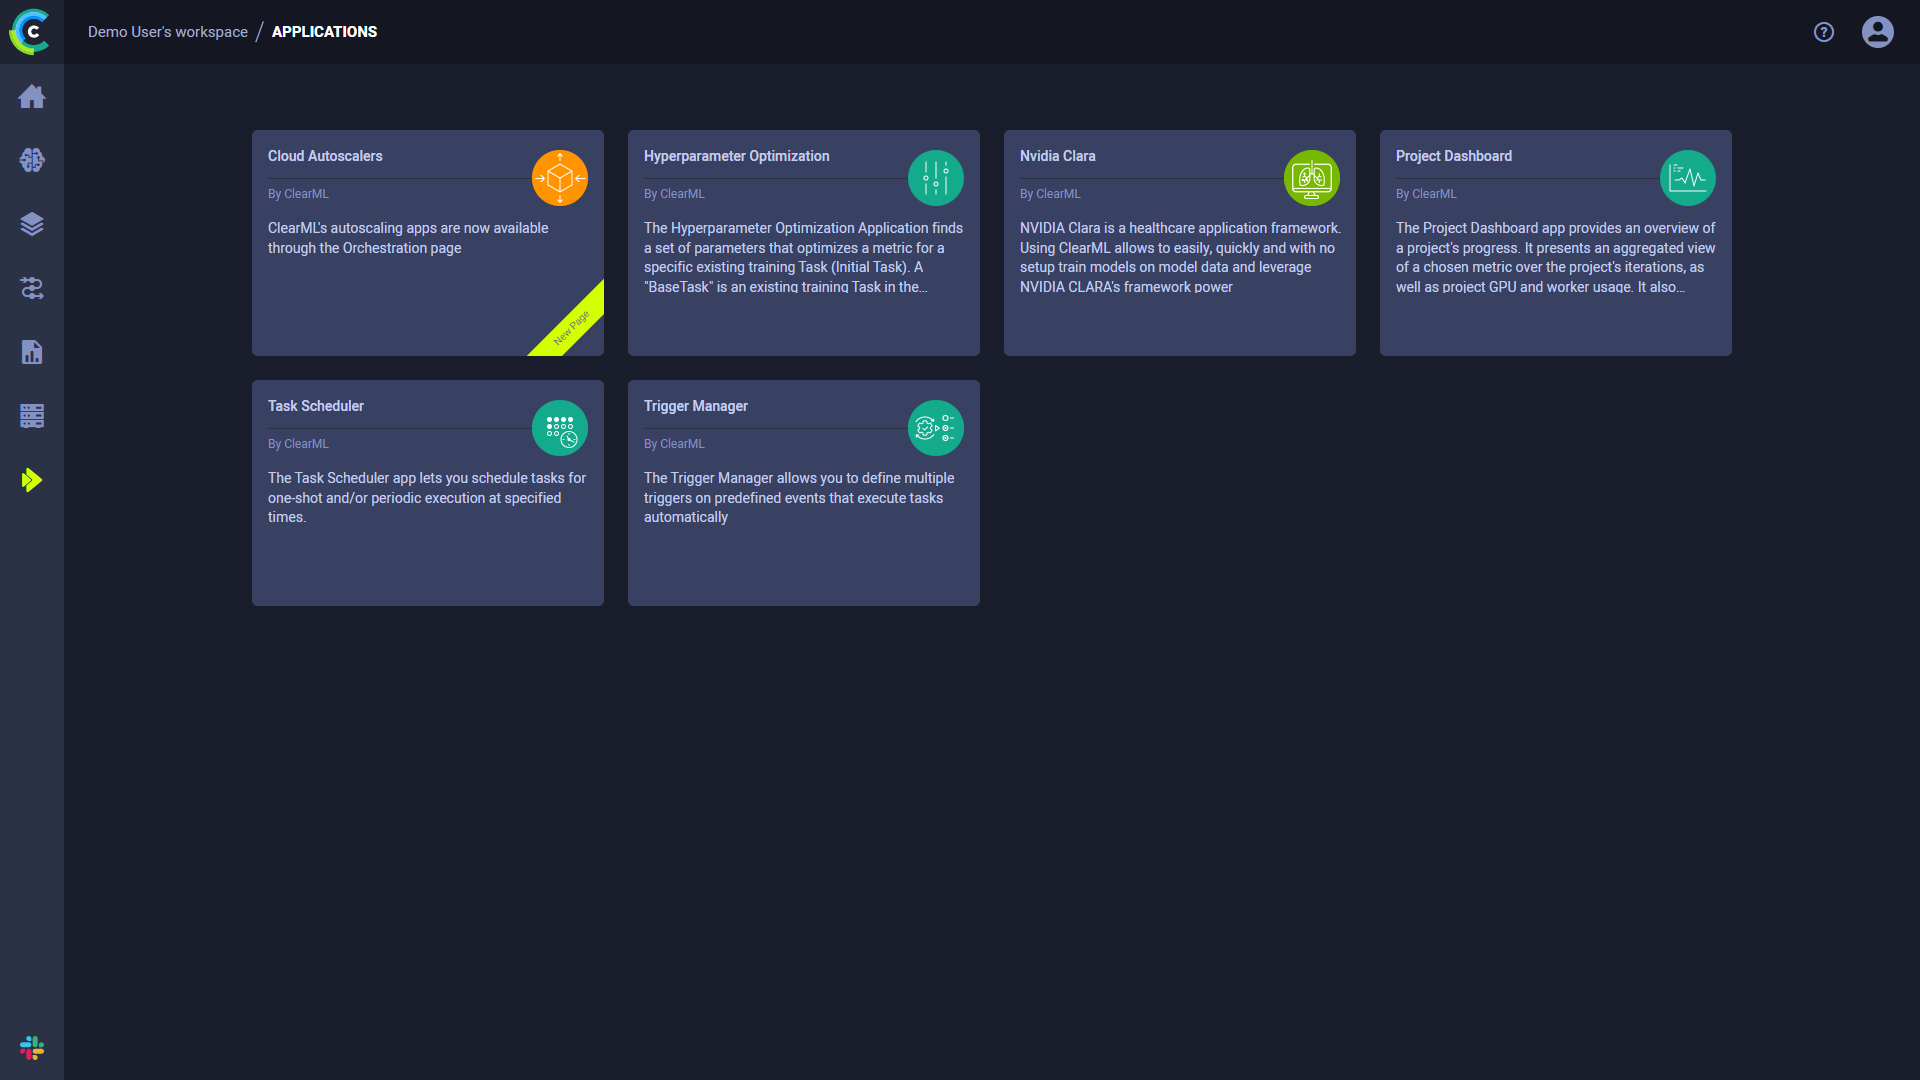
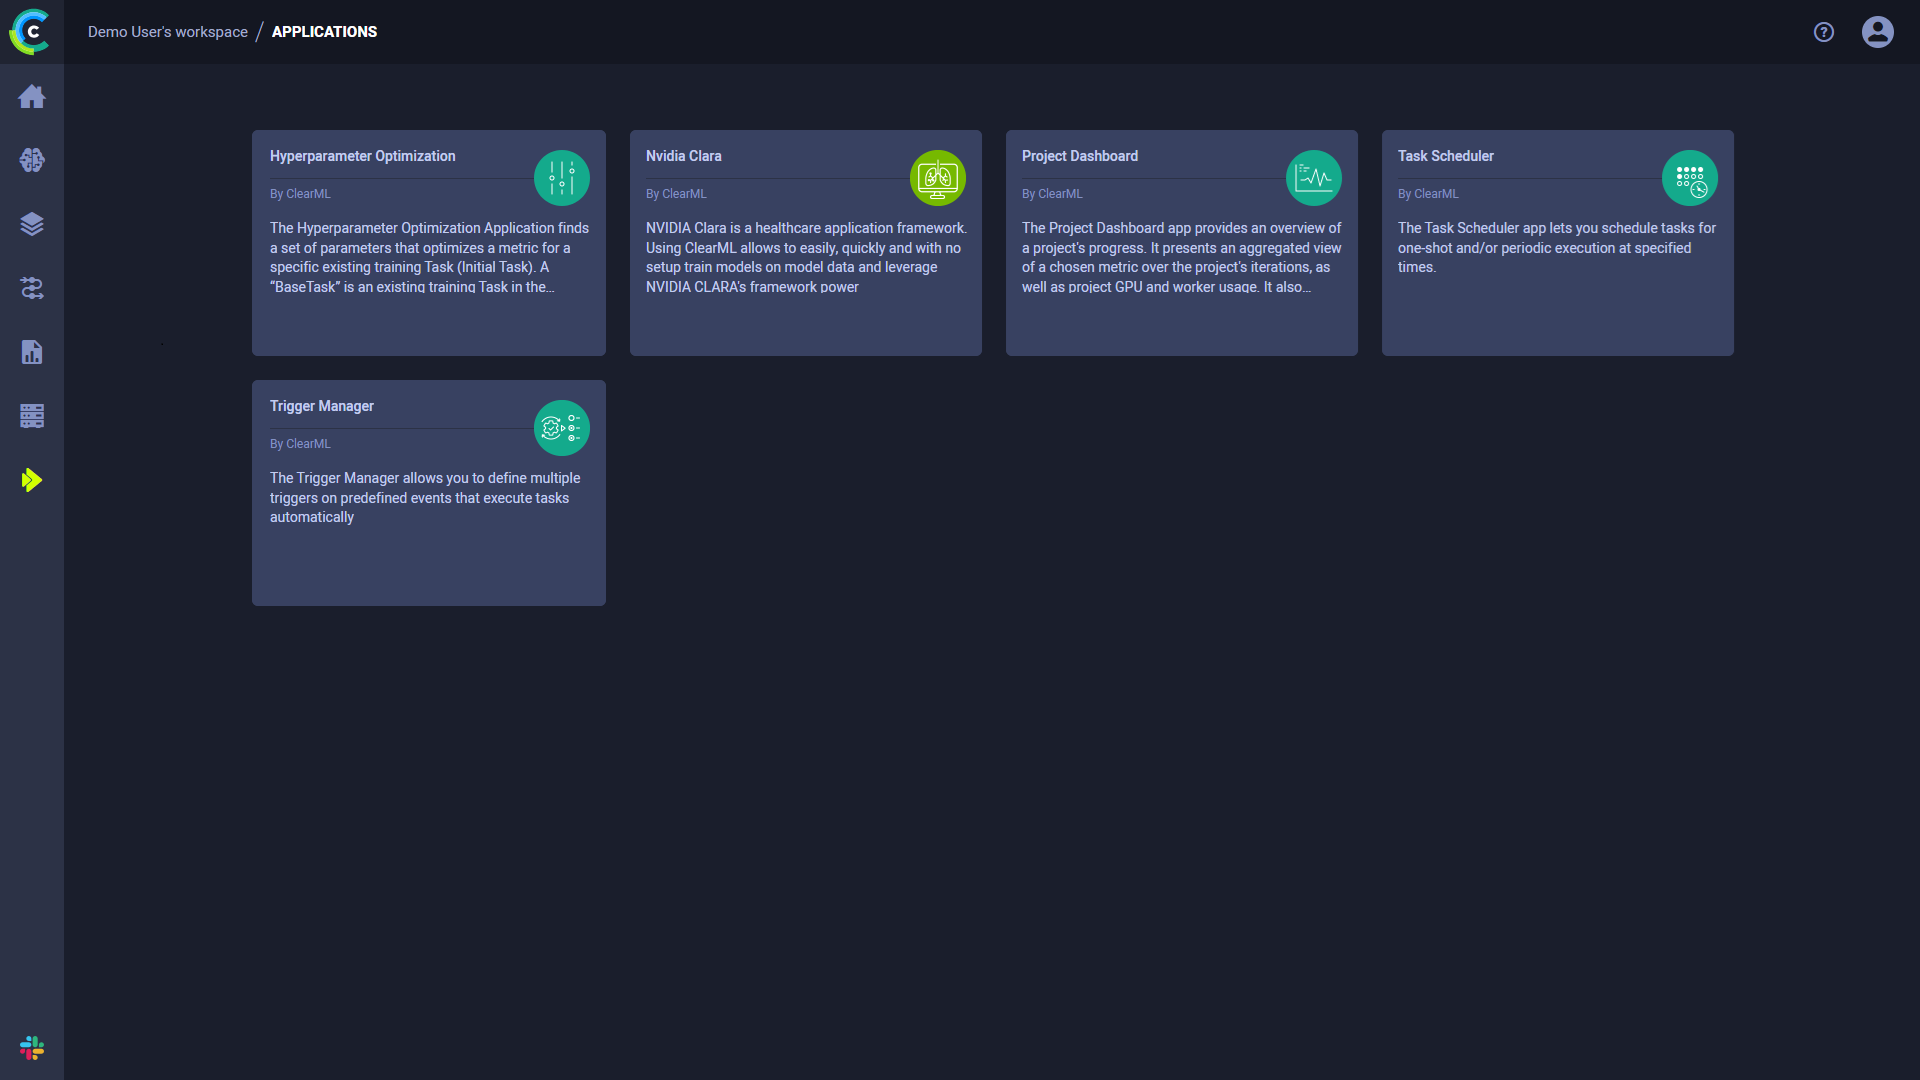
Update docs (#793)

Changed region(s): [[0.125, 0.1222, 0.9062, 0.3361], [0.125, 0.3361, 0.5312, 0.5806]]

diff --git a/sidebars.js b/sidebars.js
@@ -40,9 +40,9 @@ module.exports = {
         {'Cloud Autoscaling': [
             'cloud_autoscaling/autoscaling_overview',
              {'Autoscaler Apps': [
-                    {type: 'ref', id: 'webapp/applications/apps_gpu_compute'},
-                    {type: 'ref', id: 'webapp/applications/apps_aws_autoscaler'},
-                    {type: 'ref', id: 'webapp/applications/apps_gcp_autoscaler'},
+                    'webapp/applications/apps_gpu_compute',
+                    'webapp/applications/apps_aws_autoscaler',
+                    'webapp/applications/apps_gcp_autoscaler',
                  ]
              }
              ]
@@ -119,9 +119,6 @@ module.exports = {
             {
                 'ClearML Applications': [
                     'webapp/applications/apps_overview',
-                    'webapp/applications/apps_gpu_compute',
-                    'webapp/applications/apps_aws_autoscaler',
-                    'webapp/applications/apps_gcp_autoscaler',
                     'webapp/applications/apps_hpo',
                     'webapp/applications/apps_dashboard',
                     'webapp/applications/apps_task_scheduler',

diff --git a/docs/webapp/webapp_profile.md b/docs/webapp/webapp_profile.md
@@ -8,19 +8,21 @@ To navigate to the Settings page, click the <img src="/docs/latest/icons/ico-me.
 button in the top right corner of the web UI screen, then click **Settings**. 
 
 The Settings page consists of the following sections:
-* [Profile](#profile) - You basic user information
-* [Configuration](#configuration) - Control general system behavior settings and input storage access credentials
-* [Workspace](#workspace)  
-    * [ClearML credentials](#clearml-credentials) - Create client credentials for ClearML and ClearML Agent to use 
-    * [Configuration vault](#configuration-vault) (ClearML Enterprise Server) - Define global ClearML client settings
-      that are applied to all ClearML and ClearML Agent instances (which use the workspace's access 
-      credentials)
-* [Administrator Vaults](#administrator-vaults) (ClearML Enterprise Server) - Manage user-group level configuration 
-  vaults to apply ClearML client settings to all members of the user groups
-* [Users & Groups](#users--groups) - Manage the users that have access to a workspace
-* [Access Rules](#access-rules) (ClearML Enterprise Server) - Manage per-resource access privileges 
-* [Identity Providers](#identity-providers) (ClearML Enterprise Server) - Manage server identity providers
-* [Usage & Billing](#usage--billing) (ClearML Hosted Service) - View current usage information and billing details 
+* User Settings:
+  * [Profile](#profile) - You basic user information
+  * [Configuration](#configuration) - Control general system behavior settings and input storage access credentials
+  * [Workspace](#workspace)  
+      * [ClearML credentials](#clearml-credentials) - Create client credentials for ClearML and ClearML Agent to use 
+      * [Configuration vault](#configuration-vault) (ClearML Enterprise Server) - Define global ClearML client settings
+        that are applied to all ClearML and ClearML Agent instances (which use the workspace's access 
+        credentials)
+* Administrator Settings:
+  * [Administrator Vaults](#administrator-vaults) (ClearML Enterprise Server) - Manage user-group level configuration 
+    vaults to apply ClearML client settings to all members of the user groups
+  * [Users & Groups](#users--groups) - Manage the users that have access to a workspace
+  * [Access Rules](#access-rules) (ClearML Enterprise Server) - Manage per-resource access privileges 
+  * [Identity Providers](#identity-providers) (ClearML Enterprise Server) - Manage server identity providers
+  * [Usage & Billing](#usage--billing) (ClearML Hosted Service) - View current usage information and billing details 
 
 ## Profile 
 The profile tab presents user information.
@@ -238,6 +240,88 @@ Removed users lose access to your workspace's resources (tasks, models, etc.) an
 revoked. Tasks and associated artifacts logged to your workspace by a removed user will remain in your workspace. The 
 user can only rejoin your workspace when you re-invite them. 
 
+### Service Accounts
+
+:::important Enterprise Feature
+This feature is available under the ClearML Enterprise plan.
+:::
+
+Service accounts are ClearML users that provide services with access to the ClearML API, but not the 
+UI. Administrators can create access credentials for service accounts to use them for different ClearML Agents, 
+automations, and more. 
+
+A service account has all the privileges of a normal user in ClearML, with the following limitations:
+* Service accounts cannot be used to access the UI
+* Service accounts can be used to facilitate running tasks under the identity of each task's owner ("Impersonation"). 
+  * Used to run an agent using the command-line, this will allow you to specify the `--use-owner-token` option.
+  * Used to run the ClearML Agent Helm Chart, this will allow you to specify `values.agentk8s.useOwnerToken: true` option.
+  * Used to run an Autoscaler application, this will allow you to make use of the `Apply Task Owner Vault Configuration`
+  option.
+
+:::info Access Rules 
+When [access controls](#access-rules) are provisioned, they apply to service accounts the same as for ClearML users.
+Therefore, in order to use a service account to run an agent in daemon mode, the service account must have access to the 
+queue the agent will service.
+:::
+
+The **SERVICE ACCOUNTS** table lists workspace service accounts. 
+Each row of the table includes: 
+* Name - Service account name 
+* [User groups](#user-groups)
+* User ID
+* Credentials - Number of credentials currently available to the account
+* Last active time
+
+Hover over a service account in the table to **Edit** or **Delete** it.
+
+![Service accounts](../img/settings_service_accounts.png)
+
+#### Creating a Service Account
+
+To create a service account:
+1. Click **+ ADD SERVICE ACCOUNT**
+2. In the **ADD SERVICE ACCOUNT** modal input a name for the new account. Select `Allow impersonation` to allow the 
+   service account to assume the identity of a task owner 
+4. Click **Save**
+
+:::info Impersonation 
+Service accounts are members of the `Users` group, meaning they can access the resources available to all users. When 
+impersonation is enabled, a task run by the service account (i.e. by an agent or autoscaler using the service accounts' 
+credentials) is executed as if by the owner of the task, meaning it will have access to the task owner's configuration 
+vaults and to the resources that the task owner has access to. Impersonating an admin user does not mean the task's code 
+will have admin privileges.
+
+In case impersonation is not enabled: 
+* If you run an agent with `--use_owner_token` then the agent will fail. 
+* If you run an agent without `--use_owner_token`, the task will run with the service account's access rules, so make 
+  sure the account uses resources it has access to
+:::
+
+When a service account is created, an initial set of credentials is automatically generated. The dialog displays new 
+credentials, formatted as a ready-to-copy configuration file section.
+
+#### Service Account Credentials 
+
+To generate new credentials for a service account:
+1. Hover over the account's row on the table
+2. Click the <img src="/docs/latest/icons/ico-edit.svg" alt="Edit Pencil" className="icon size-md" /> button, which
+   opens the editing panel
+3. Click **Create new credentials**
+
+The dialog displays new credentials, formatted as a ready-to-copy configuration file section.
+
+To revoke a set of credentials:
+1. In the editing panel, hover of the relevant credential's row
+2. Click the <img src="/docs/latest/icons/ico-trash.svg" alt="Trash can" className="icon size-md" /> button
+
+#### Deleting Service Account
+Deleting a service account will revoke its credentials, causing agents using the account's credentials to fail. 
+Tasks and associated artifacts logged to your workspace by a service account will remain in your workspace.
+
+To delete a service account:
+1. Hover over the account's row on the table
+1. Click the <img src="/docs/latest/icons/ico-trash.svg" alt="Trash can" className="icon size-md" /> button
+
 ### User Groups
 
 :::important Enterprise Feature
@@ -249,7 +333,7 @@ Administrators can define user groups, which can be used for access privilege ma
 multiple user groups.
 
 The system includes three pre-configured groups that can't be removed: 
-* `Users` - All users. Can't be modified
+* `Users` - All users (including [service accounts](#service-accounts)). Can't be modified
 * `Admins` - Have RW access to all resources (except queue modification), and can grant users / user groups access 
   permissions to workspace resources
 * `Queue admins` - Can create / delete / rename queues
@@ -288,8 +372,8 @@ otherwise provided individually or to another group they are members of).
 This feature is available under the ClearML Enterprise plan
 :::
 
-Workspace administrators can use the **Access Rules** page to manage workspace permissions, by specifying which users 
-and/or user groups have access permissions to the following workspace resources:
+Workspace administrators can use the **Access Rules** page to manage workspace permissions, by specifying which users,
+service accounts, and/or user groups have access permissions to the following workspace resources:
  
 * [Projects](../fundamentals/projects.md)
 * [Tasks](../fundamentals/task.md) 
@@ -308,9 +392,10 @@ Access privileges can be viewed, defined, and edited in the **Access Rules** tab
    specific project or task), click the input box, and select the object from the list that appears. Filter the 
    list by typing part of the desired object name
 1. Select the permission type - **Read Only** or **Read & Modify**
-1. Assign users and/or [user groups](#user-groups) to be given access. Click the desired input box, and select the 
-   users / groups from the list that appears. Filter the list by typing part of the desired object name. To revoke 
-   access, hover over a user's or group's row and click the <img src="/docs/latest/icons/ico-trash.svg" alt="Trash can" className="icon size-md" /> 
+1. Assign users, [service accounts](#service-accounts), and/or [user groups](#user-groups) to be given access. Click the 
+   desired input box, and select the users / service accounts / groups from the list that appears. Filter the list by 
+   typing part of the desired object name. To revoke 
+   access, hover over a user's, service account's, or group's row and click the <img src="/docs/latest/icons/ico-trash.svg" alt="Trash can" className="icon size-md" /> 
    button
 1. Click **SAVE**
 
@@ -324,22 +409,22 @@ not have access to another task in the project, unless explicitly granted.
 1. Hover over the access rule's row on the table
 1. Click the <img src="/docs/latest/icons/ico-edit.svg" alt="Edit Pencil" className="icon size-md" /> button
 1. Change the resource, resource object, and permission type as desired
-1. Edit access rule users / groups (see details [here](#creating-access-rules))
+1. Edit access rule users / service accounts / groups (see details [here](#creating-access-rules))
 1. Click **SAVE**
 
 ### Deleting Access Rules
 1. Hover over the access rule's row on the **Access Rules** table
 1. Click the <img src="/docs/latest/icons/ico-trash.svg" alt="Trash can" className="icon size-md" /> button
 
-All users and access groups who had been assigned to the deleted access rule, will lose the access privileges granted by
-that rule (unless otherwise provided by a different rule)
+All users, service accounts, and user groups who had been assigned to the deleted access rule, will lose the access privileges granted by
+that rule (unless otherwise provided by a different rule).
 
 ### Filtering Access Rules Table
 
 The access rules table can be filtered by resource type and by target resource and users / groups. 
 * **To filter by resource**, click the **View** dropdown menu and select the desired resource
-* **To filter by target resource or users / groups**, click <img src="/docs/latest/icons/ico-filter-off.svg" alt="Filter" className="icon size-md" />
-on the respective column and select the users / groups to view from the list that appears. 
+* **To filter by target resource or users / groups / service accounts**, click <img src="/docs/latest/icons/ico-filter-off.svg" alt="Filter" className="icon size-md" />
+on the respective column and select the users / groups / service accounts to view from the list that appears. 
 
 ## Identity Providers
 

diff --git a/docs/webapp/webapp_exp_comparing.md b/docs/webapp/webapp_exp_comparing.md
@@ -8,7 +8,8 @@ differences in experiments' results and their causes. You can view the differenc
 objects, and other details.
 * Hyperparameters
   * [Values](#side-by-side-textual-comparison) - Compare parameters and their values
-  * [Parallel coordinates](#parallel-coordinates-mode) - View the impact of hyperparameters on a selected metric
+  * [Parallel coordinates](#parallel-coordinates-mode) - View the impact of hyperparameters on selected metrics
+  * [Scatter plot](#scatter-plot) - View the correlation between a selected hyperparameter and metric
 * Scalars - Compare experiment metrics:
   * [Values](#tabular-scalar-comparison) - Compare minimal, maximal or last reported values in a concise comparison 
   table
@@ -59,6 +60,7 @@ The comparison pages provide the following views:
 * [Side-by-side textual comparison](#side-by-side-textual-comparison)
 * [Tabular scalar comparison](#tabular-scalar-comparison)
 * [Parallel coordinates](#parallel-coordinates-mode) for parameter impact on metric
+* [Scatter plot](#scatter-plot)
 * [Overlaid plot comparison](#plot-comparison)
 * Side-by-side [debug sample](#side-by-side-debug-sample-comparison) and [plot](#plot-comparison) comparison
 
@@ -101,11 +103,10 @@ Switch on the **Show row extremes** toggle to highlight each variant's maximum a
 
 ### Parallel Coordinates Mode
 
-The **Hyperparameters** tab's **Parallel Coordinates** comparison shows experiments' hyperparameter impact on a specific metric.
-
-**To compare by metric:**
-1. Under **Performance Metric**, select a metric to compare for
-1. Select the metric values to use in the plot:
+The **Hyperparameters** tab's **Parallel Coordinates** comparison shows experiments' hyperparameter impact on specified 
+metrics:
+1. Under **Performance Metrics**, select a metrics to compare for
+1. Select the values to use for each metric in the plot (can select multiple):
     * LAST - The final value, or the most recent value, for currently running experiments 
     * MIN - Minimal value 
     * MAX - Maximal value
@@ -120,6 +121,23 @@ For example, plot the metric/variant `accuracy`/`total` against the hyperparamet
 To focus on a specific experiment, hover over its name in the graph legend.
 
 To hide an experiment, click its name in the graph legend (click again to bring back).
+
+### Scatter Plot 
+The **Hyperparameters** tab's **Scatter Plot** comparison shows experiments' correlation between a selected 
+hyperparameter and metric.
+
+To show the value distribution:
+* Select the **Plot Axes**:
+   1. Under Y-axis select the metric and the metric values to use in the plot:
+      * **LAST** - The final value, or the most recent value, for currently running experiments
+      * **MIN** - Minimal value
+      * **MAX** - Maximal value
+   1. Under X-axis select the hyperparameter.
+
+Hovering over each datapoint in the resulting plot will show the experiment name and the metric and parameter value for that 
+point. You can add additional metrics and hyperparameters values to the datapoint tooltip through **ADDITIONAL DATA POINT INFORMATION**.
+
+![Comparison scatter plot](../img/webapp_compare_scatter.png)
 
 ### Plot Comparison
 The **Scalars** (Graph view) and **Plots** tabs compare experiments' plots.

diff --git a/docs/webapp/applications/apps_overview.md b/docs/webapp/applications/apps_overview.md
@@ -13,10 +13,6 @@ Use ClearML's GUI Applications to manage ML workloads and automatically run your
 Configure and launch app instances, then track their execution from the app dashboard.
 
 ClearML provides the following applications:
-* [**GPU Compute**](apps_gpu_compute.md) - Launch cloud machines on demand and optimize their usage according to a 
-  defined budget--no previous setup necessary
-* [**AWS Autoscaler**](apps_aws_autoscaler.md) - Optimize AWS EC2 instance usage according to a defined instance budget
-* [**GCP Autoscaler**](apps_gcp_autoscaler.md) - Optimize GCP instance usage according to a defined instance budget
 * [**Hyperparameter Optimization**](apps_hpo.md) - Find the parameter values that yield the best performing models
 * **Nvidia Clara** - Train models using Nvidia's Clara framework
 * [**Project Dashboard**](apps_dashboard.md) - High-level project monitoring with Slack alerts
@@ -24,6 +20,12 @@ ClearML provides the following applications:
 * [**Trigger Manager**](apps_trigger_manager.md) - Define tasks to be run when predefined events occur (available under ClearML Enterprise Plan)
 * [**Jupyter Lab**](apps_jupyter_lab.md) - Launch a Jupyter Lab session on a remote machine (available under ClearML Enterprise Plan)
 * [**VS Code**](apps_vscode.md) - Launch a VS Code session on a remote machine (available under ClearML Enterprise Plan)
+
+:::info Autoscalers
+Autoscaling ([GPU Compute](apps_gpu_compute.md), [AWS Autoscaler](apps_aws_autoscaler.md), and [GCP Autoscaler](apps_gcp_autoscaler.md))
+was previously available through the Applications page. The autoscaler functionality has been moved to the [Orchestration page](https://app.clear.ml/workers-and-queues/autoscalers) 
+in the WebApp. 
+:::
 
 ## App Pages Layout
 Each application's page is split into two sections:

diff --git a/docs/webapp/webapp_orchestration_dash.md b/docs/webapp/webapp_orchestration_dash.md
@@ -43,7 +43,9 @@ Category sections display the resource count and utilization for:
 
 Hover over any of this data to see the number of currently idle machines. 
 
-Use the **Event Log** to view updates of worker events: worker addition/removal, worker has become idle/busy. 
+Use the **Event Log** to view updates of worker events: worker addition/removal, worker has become idle/busy. Hover over 
+the log to download (<img src="/docs/latest/icons/ico-download.svg" alt="Download" className="icon size-md space-sm" />) 
+it or open the expanded view (<img src="/docs/latest/icons/ico-maximize.svg" alt="Maximize" className="icon size-sm space-sm" />).
 
 ## Resource Graph
 

diff --git a/docs/webapp/webapp_model_comparing.md b/docs/webapp/webapp_model_comparing.md
@@ -49,7 +49,7 @@ The comparison tabs provides the following views:
 ### Side-by-side Textual Comparison
 
 In the **Details** and **Network** tabs, you can view differences in the models' nominal 
-values. **Details** displays the models' general information, labels, and metadata. **Network** displays the models' 
+values. **Details** displays the models' general information, labels, metadata, and lineage. **Network** displays the models' 
 configuration. Each model's 
 information is displayed in a column, so each field is lined up side-by-side. 
 
